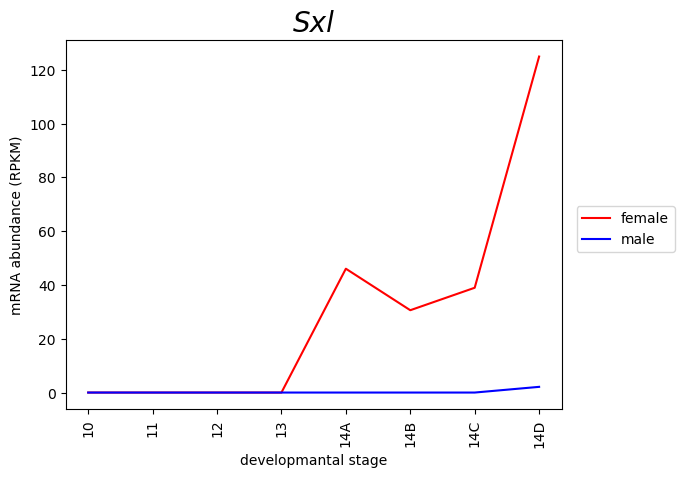
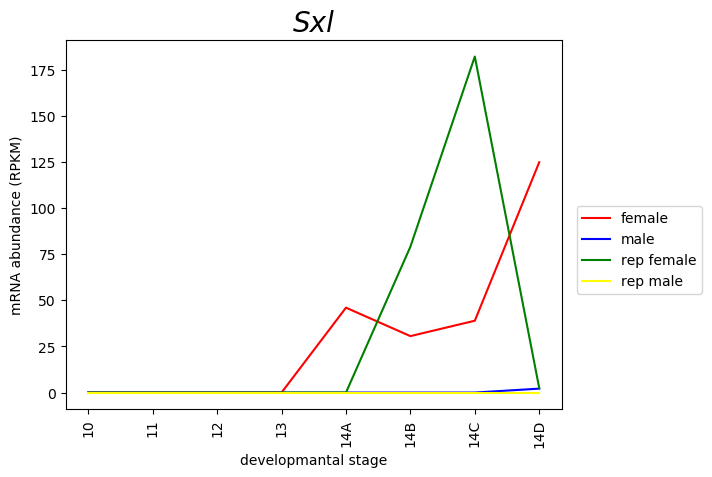
exercise 2

diff --git a/day4-homework/day4-hw-2.py b/day4-homework/day4-hw-2.py
@@ -1,7 +1,7 @@
 #!/usr/bin/env python3
 
 """
-Usage: ./03-boxplot.py <samples tsv> <ctab.dir>
+Usage: ./03-boxplot.py <samples tsv> <ctab.dir> <replicates.csv>
 
 Create a timecourse of a given transcript (FBtr0331261) for females
 
@@ -12,9 +12,6 @@ import pandas as pd
 import os
 import matplotlib.pyplot as plt
 import numpy as np
-
-df = pd.read_csv(sys.argv[1])
-transcript = 'FBtr0331261'
 
 def timecourse(gender, df):
     fpkms = []
@@ -27,15 +24,24 @@ def timecourse(gender, df):
         fpkms.append(ctab_df.loc[transcript,"FPKM"])
     return fpkms
 
-fpkm_f = timecourse('female', df)
-fpkm_m = timecourse('male', df)
+
+df1 = pd.read_csv(sys.argv[1])
+df2 = pd.read_csv(sys.argv[3])
+
+transcript = 'FBtr0331261'
+
+
+fpkm_f = timecourse('female', df1)
+fpkm_m = timecourse('male', df1)
+fpkm_rep_f = [0,0,0,0] + timecourse('female', df2) 
+fpkm_rep_m = [0,0,0,0] + timecourse('male', df2)
 
 # plotting 
 fig, ax = plt.subplots()
 ax.plot(fpkm_f, color='red', label = 'female')
 ax.plot(fpkm_m, color='blue',label = 'male')
-
-
+ax.plot(fpkm_rep_f, color='green', label = 'rep female')
+ax.plot(fpkm_rep_m, color='yellow',label = 'rep male')
 plt.xlabel('developmantal stage')
 plt.ylabel('mRNA abundance (RPKM)')
 plt.title('Sxl', style='italic', fontsize='20')
